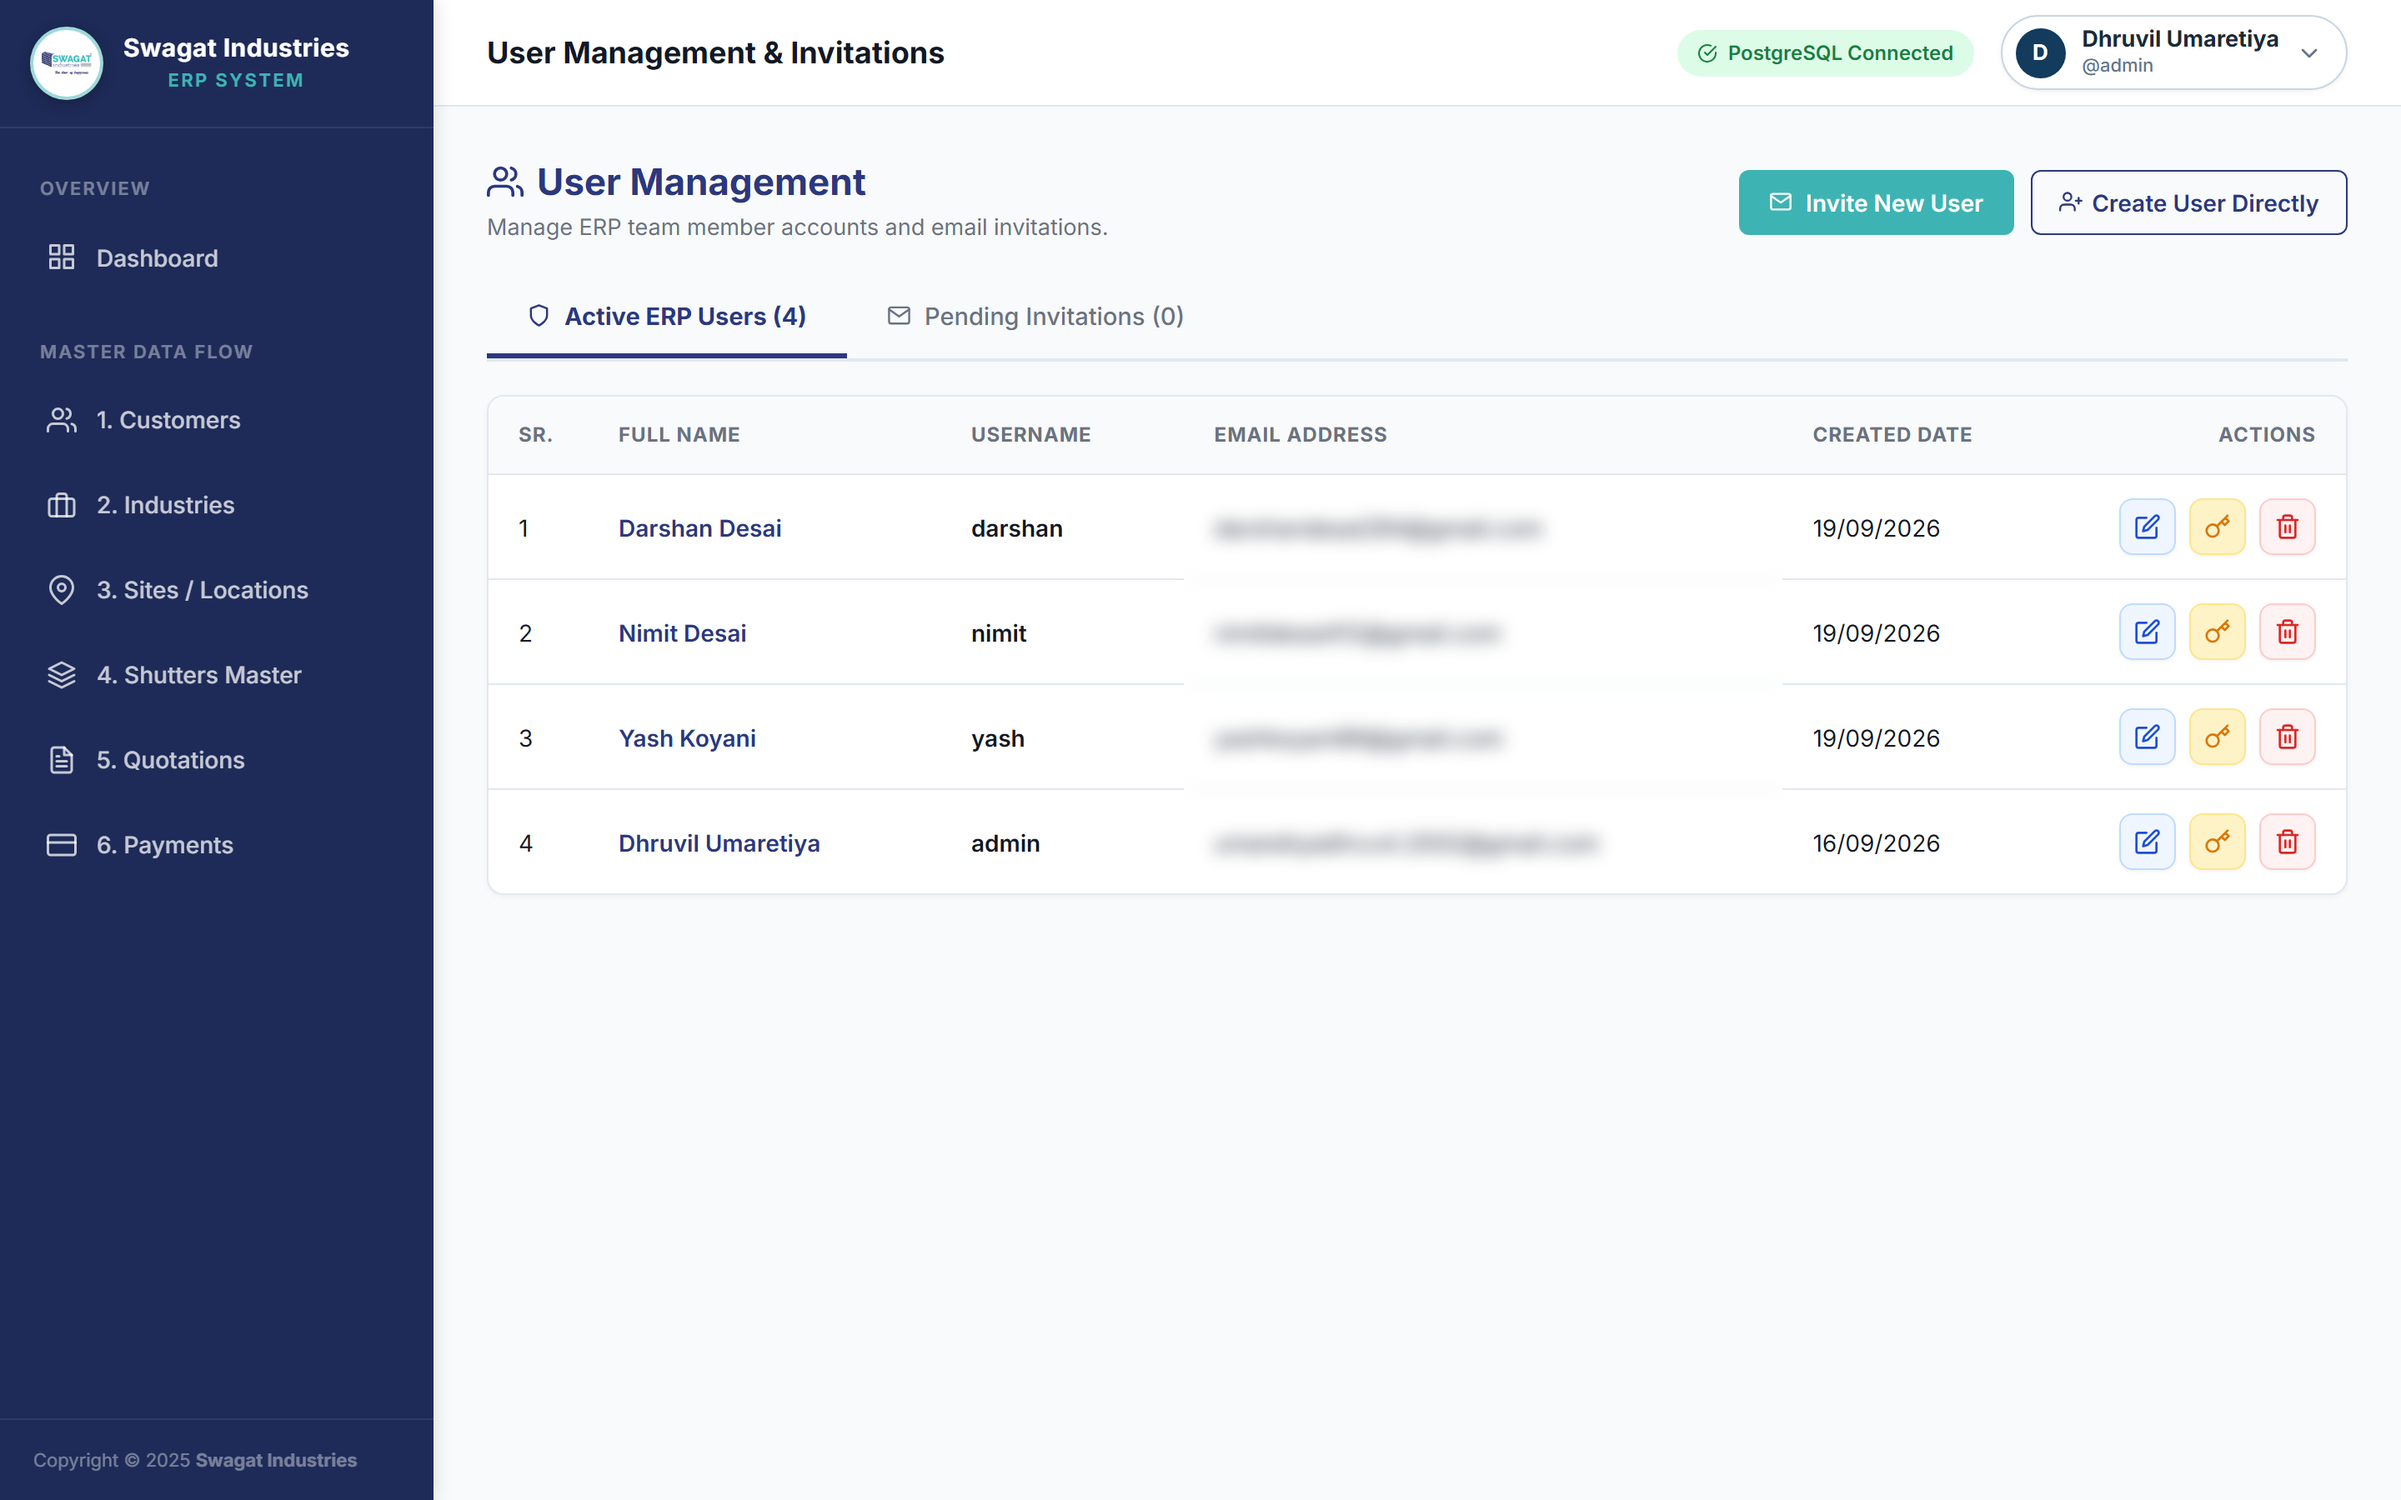
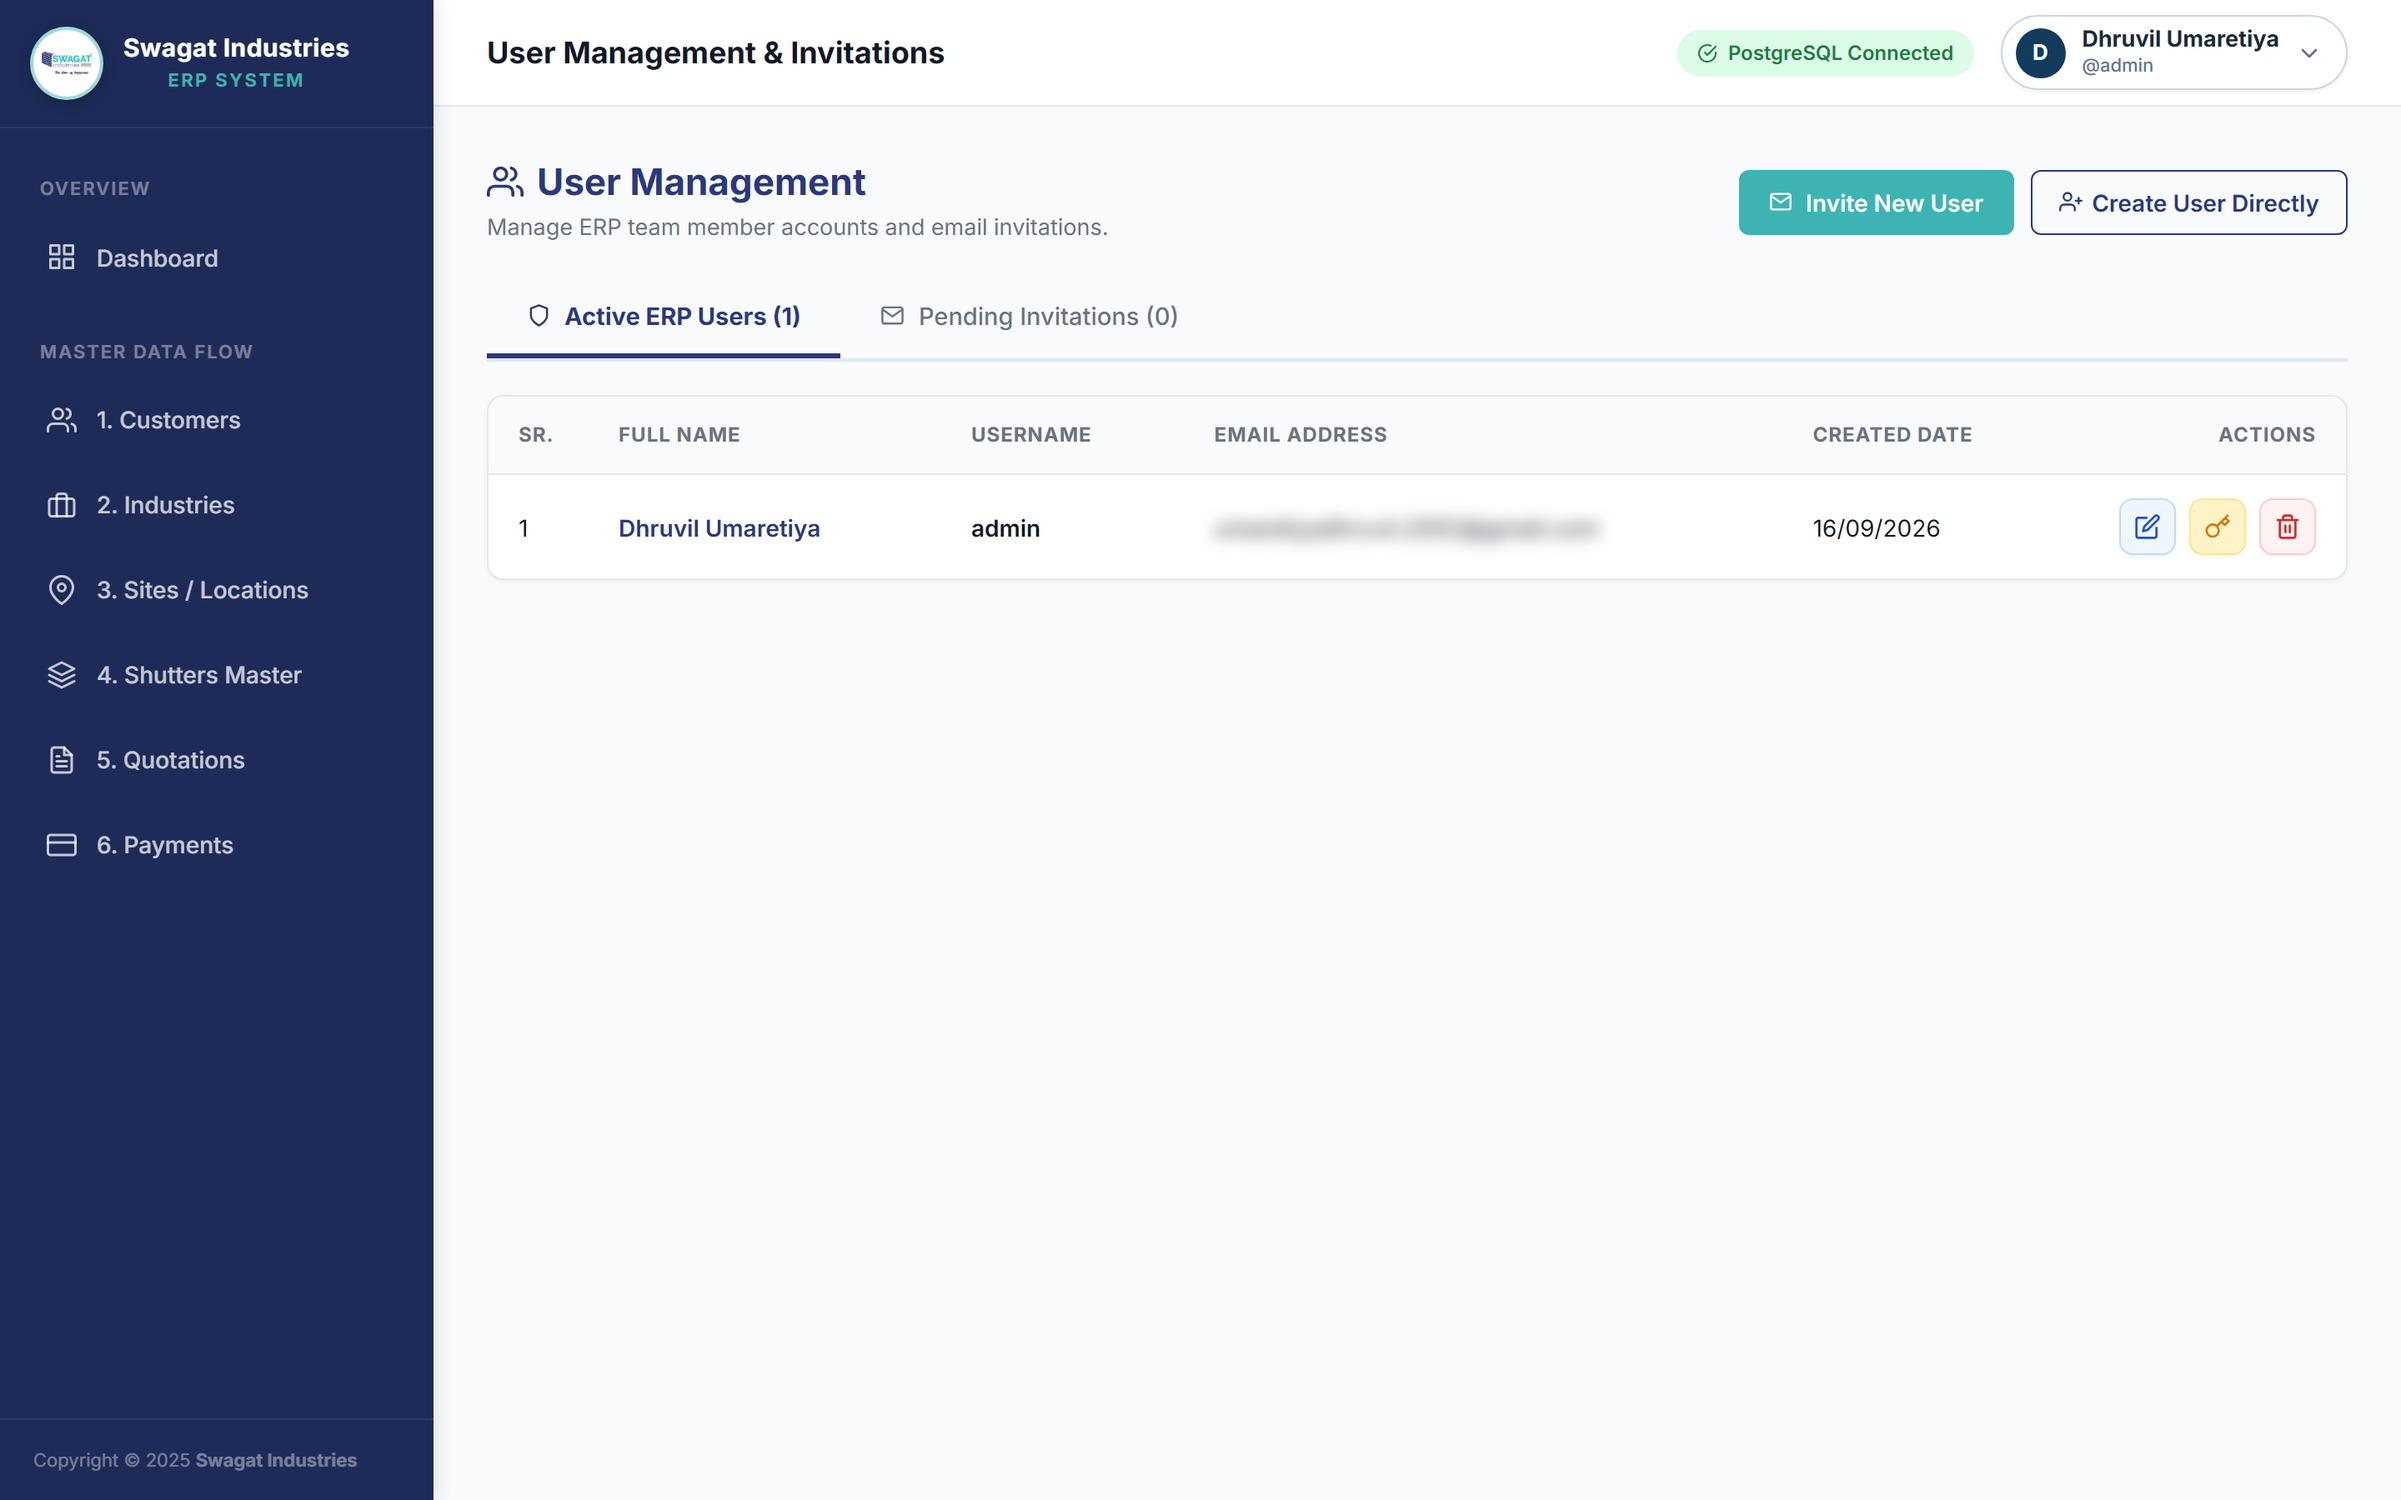
feat: add database utility scripts for user management and data cleanup

diff --git a/BE/scripts/clear_dummy_data.js b/BE/scripts/clear_dummy_data.js
@@ -1,0 +1,54 @@
+import { PrismaClient } from '@prisma/client';
+
+const prisma = new PrismaClient();
+
+async function clearDummyData() {
+  console.log('🚀 Starting database cleanup (removing dummy operational data)...');
+  console.log('⚠ Preserving User Management, Invitations, Company Settings, & Terms...');
+
+  try {
+    // Delete operational records in safe cascade dependency order
+    const deletedPayments = await prisma.payment.deleteMany({});
+    console.log(`✓ Deleted ${deletedPayments.count} dummy payments`);
+
+    const deletedAddCharges = await prisma.additionalCharge.deleteMany({});
+    console.log(`✓ Deleted ${deletedAddCharges.count} dummy additional charges`);
+
+    const deletedQuotationItems = await prisma.quotationItem.deleteMany({});
+    console.log(`✓ Deleted ${deletedQuotationItems.count} dummy quotation items`);
+
+    const deletedQuotations = await prisma.quotation.deleteMany({});
+    console.log(`✓ Deleted ${deletedQuotations.count} dummy quotations`);
+
+    const deletedShutters = await prisma.shutter.deleteMany({});
+    console.log(`✓ Deleted ${deletedShutters.count} dummy shutters`);
+
+    const deletedSites = await prisma.site.deleteMany({});
+    console.log(`✓ Deleted ${deletedSites.count} dummy sites`);
+
+    const deletedIndustries = await prisma.industry.deleteMany({});
+    console.log(`✓ Deleted ${deletedIndustries.count} dummy industries`);
+
+    const deletedCustomers = await prisma.customer.deleteMany({});
+    console.log(`✓ Deleted ${deletedCustomers.count} dummy customers`);
+
+    console.log('\n--- VERIFYING PRESERVED DATA ---');
+    const userCount = await prisma.user.count();
+    const inviteCount = await prisma.userInvitation.count();
+    const settingsCount = await prisma.companySetting.count();
+    const termsCount = await prisma.quotationTerm.count();
+
+    console.log(`✅ Users Intact: ${userCount}`);
+    console.log(`✅ User Invitations Intact: ${inviteCount}`);
+    console.log(`✅ Company Settings Intact: ${settingsCount}`);
+    console.log(`✅ Quotation Terms Intact: ${termsCount}`);
+    console.log('\n🎉 All dummy operational data successfully cleaned!');
+  } catch (err) {
+    console.error('❌ Error during cleanup:', err);
+    process.exit(1);
+  } finally {
+    await prisma.$disconnect();
+  }
+}
+
+clearDummyData();

diff --git a/BE/scripts/seed_users.js b/BE/scripts/seed_users.js
@@ -1,0 +1,31 @@
+import { PrismaClient } from '@prisma/client';
+import bcrypt from 'bcryptjs';
+
+const prisma = new PrismaClient();
+
+async function seedUsers() {
+  const hash = await bcrypt.hash('admin123', 10);
+
+  const users = [
+    { username: 'admin', email: 'umaretiyadhruvil.2002@gmail.com', fullName: 'Dhruvil Umaretiya', passwordHash: hash, role: 'ADMIN', createdAt: new Date('2026-09-16T10:00:00Z') },
+    { username: 'yash', email: 'yashkoyani66@gmail.com', fullName: 'Yash Koyani', passwordHash: hash, role: 'ADMIN', createdAt: new Date('2026-09-19T11:00:00Z') },
+    { username: 'nimit', email: 'nimitdesai412@gmail.com', fullName: 'Nimit Desai', passwordHash: hash, role: 'ADMIN', createdAt: new Date('2026-09-19T12:00:00Z') },
+    { username: 'darshan', email: 'darshandesai284@gmail.com', fullName: 'Darshan Desai', passwordHash: hash, role: 'ADMIN', createdAt: new Date('2026-09-19T13:00:00Z') },
+  ];
+
+  for (const u of users) {
+    await prisma.user.upsert({
+      where: { username: u.username },
+      update: { email: u.email, fullName: u.fullName },
+      create: u,
+    });
+  }
+
+  console.log('Successfully seeded 4 User Management accounts!');
+  await prisma.$disconnect();
+}
+
+seedUsers().catch(err => {
+  console.error(err);
+  process.exit(1);
+});

diff --git a/BE/scripts/check_data.js b/BE/scripts/check_data.js
@@ -1,0 +1,27 @@
+import { PrismaClient } from '@prisma/client';
+
+const prisma = new PrismaClient();
+
+async function checkData() {
+  console.log('--- CURRENT DATABASE RECORD COUNTS ---');
+  console.log('1. Customers:', await prisma.customer.count());
+  console.log('2. Industries:', await prisma.industry.count());
+  console.log('3. Sites:', await prisma.site.count());
+  console.log('4. Shutters:', await prisma.shutter.count());
+  console.log('5. Quotations:', await prisma.quotation.count());
+  console.log('6. QuotationItems:', await prisma.quotationItem.count());
+  console.log('7. AdditionalCharges:', await prisma.additionalCharge.count());
+  console.log('8. Payments:', await prisma.payment.count());
+  console.log('--------------------------------------');
+  console.log('9. Users (PRESERVE):', await prisma.user.count());
+  console.log('10. UserInvitations (PRESERVE):', await prisma.userInvitation.count());
+  console.log('11. CompanySettings (PRESERVE):', await prisma.companySetting.count());
+  console.log('12. QuotationTerms (PRESERVE):', await prisma.quotationTerm.count());
+
+  await prisma.$disconnect();
+}
+
+checkData().catch(err => {
+  console.error(err);
+  process.exit(1);
+});

diff --git a/BE/scripts/keep_only_admin.js b/BE/scripts/keep_only_admin.js
@@ -1,0 +1,20 @@
+import { PrismaClient } from '@prisma/client';
+
+const prisma = new PrismaClient();
+
+async function keepOnlyAdmin() {
+  const deleted = await prisma.user.deleteMany({
+    where: {
+      username: { not: 'admin' }
+    }
+  });
+  console.log(`Deleted ${deleted.count} users. Preserved admin user.`);
+  const remaining = await prisma.user.findMany();
+  console.log('Remaining Users:', remaining.map(u => ({ id: u.id, username: u.username, email: u.email })));
+  await prisma.$disconnect();
+}
+
+keepOnlyAdmin().catch(err => {
+  console.error(err);
+  process.exit(1);
+});

diff --git a/BE/scripts/show_users.js b/BE/scripts/show_users.js
@@ -1,0 +1,13 @@
+import { PrismaClient } from '@prisma/client';
+
+const prisma = new PrismaClient();
+
+async function showUsers() {
+  const users = await prisma.user.findMany({ select: { id: true, username: true, email: true, fullName: true, role: true } });
+  console.log('Active Users:', users);
+  const invitations = await prisma.userInvitation.findMany();
+  console.log('User Invitations:', invitations);
+  await prisma.$disconnect();
+}
+
+showUsers();
